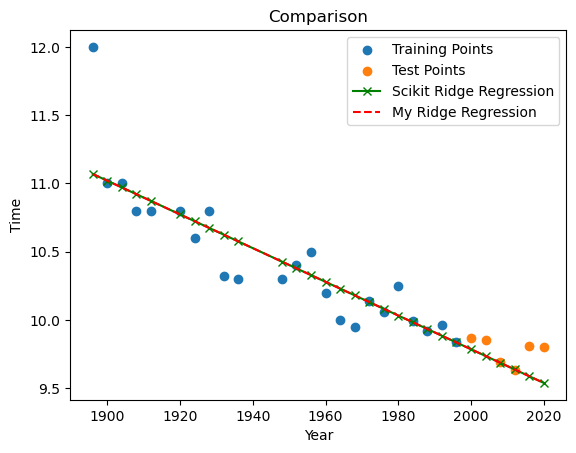
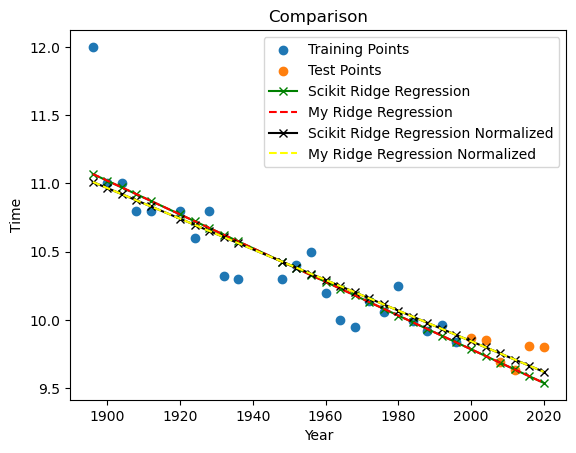
added normalization

diff --git a/Project3/ridge.py b/Project3/ridge.py
@@ -9,12 +9,13 @@ def transform(X):
 
 
 class Ridge_Regression:
-    def __init__(self, lambda_value=0, normalize=True):
+    def __init__(self, lambda_value=0, normalize=False):
         """
         Ridge regression model.
         
         Args:
             lambda_value = 0: regularization coefficient
+            normalize = False: if True, normalize the data using Z-score normalization
         """
         self.lambda_value = lambda_value
         self.normalize = normalize
@@ -31,12 +32,9 @@ class Ridge_Regression:
         if self.normalize:
             self.X_mean = np.mean(X,axis=0)
             self.X_std = np.std(X,axis=0)
-            self.y_mean = np.mean(y)
 
             X = (X-self.X_mean)/self.X_std
-            y = y-self.y_mean
-            
-        
+
         X = transform(X)
         I = np.eye(X.shape[1])
         I[0,0] = 0
@@ -53,7 +51,7 @@ class Ridge_Regression:
         """
         if self.normalize:
             x = (x-self.X_mean)/self.X_std
-            return transform(x).dot(self.weights)+self.y_mean
+            return transform(x).dot(self.weights)
         return transform(x).dot(self.weights)
 
     def __str__(self):
